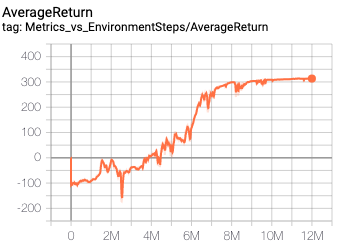
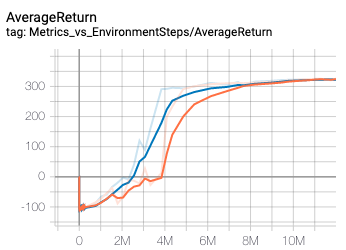
change sac_bipedal_walker.gin to alf conf (#1074)
* change sac_bipedal_walker.gin to alf conf

* also changed dyna_actrepeat_bipedalwalker and ran a test

diff --git a/alf/examples/sac_bipedal_walker_conf.py b/alf/examples/sac_bipedal_walker_conf.py
@@ -1,0 +1,69 @@
+# Copyright (c) 2021 Horizon Robotics and ALF Contributors. All Rights Reserved.
+#
+# Licensed under the Apache License, Version 2.0 (the "License");
+# you may not use this file except in compliance with the License.
+# You may obtain a copy of the License at
+#
+#      http://www.apache.org/licenses/LICENSE-2.0
+#
+# Unless required by applicable law or agreed to in writing, software
+# distributed under the License is distributed on an "AS IS" BASIS,
+# WITHOUT WARRANTIES OR CONDITIONS OF ANY KIND, either express or implied.
+# See the License for the specific language governing permissions and
+# limitations under the License.
+
+from functools import partial
+
+import torch
+
+import alf
+from alf.examples import sac_conf
+from alf.algorithms.data_transformer import RewardNormalizer
+
+alf.config(
+    "create_environment",
+    env_name="BipedalWalker-v2",
+    num_parallel_environments=32)
+
+hidden_layers = (256, ) * 2
+proj_net = partial(
+    alf.networks.NormalProjectionNetwork,
+    state_dependent_std=True,
+    scale_distribution=True,
+    std_transform=alf.math.clipped_exp)
+actor_distribution_network_cls = partial(
+    alf.networks.ActorDistributionNetwork,
+    fc_layer_params=hidden_layers,
+    continuous_projection_net_ctor=proj_net)
+critic_network_cls = partial(
+    alf.networks.CriticNetwork, joint_fc_layer_params=hidden_layers)
+
+optimizer = alf.optimizers.AdamTF(lr=5e-4)
+alf.config("Agent", optimizer=optimizer)
+
+alf.config(
+    'SacAlgorithm',
+    actor_network_cls=actor_distribution_network_cls,
+    critic_network_cls=critic_network_cls,
+    target_update_tau=0.005)
+
+alf.config('calc_default_target_entropy', min_prob=0.1)
+
+reward_normalizer = partial(RewardNormalizer, clip_value=5.)
+
+# training config
+alf.config(
+    "TrainerConfig",
+    initial_collect_steps=3000,
+    data_transformer_ctor=[reward_normalizer],
+    mini_batch_length=2,
+    unroll_length=4,
+    mini_batch_size=4096,
+    num_updates_per_train_iter=1,
+    num_iterations=200000,
+    num_checkpoints=5,
+    evaluate=False,
+    debug_summaries=True,
+    summarize_grads_and_vars=True,
+    num_summaries=100,
+    replay_buffer_length=100000)

diff --git a/alf/examples/dyna_actrepeat_sac_bipedalwalker_conf.py b/alf/examples/dyna_actrepeat_sac_bipedalwalker_conf.py
@@ -1,0 +1,44 @@
+# Copyright (c) 2021 Horizon Robotics and ALF Contributors. All Rights Reserved.
+#
+# Licensed under the Apache License, Version 2.0 (the "License");
+# you may not use this file except in compliance with the License.
+# You may obtain a copy of the License at
+#
+#      http://www.apache.org/licenses/LICENSE-2.0
+#
+# Unless required by applicable law or agreed to in writing, software
+# distributed under the License is distributed on an "AS IS" BASIS,
+# WITHOUT WARRANTIES OR CONDITIONS OF ANY KIND, either express or implied.
+# See the License for the specific language governing permissions and
+# limitations under the License.
+
+from functools import partial
+
+import alf
+from alf.algorithms.sac_algorithm import SacAlgorithm
+from alf.algorithms.dynamic_action_repeat_agent import DynamicActionRepeatAgent
+from alf.algorithms.data_transformer import RewardNormalizer
+from alf.examples import sac_bipedal_walker_conf
+from alf.utils import dist_utils
+
+alf.config(
+    "SacAlgorithm",
+    q_network_cls=partial(
+        alf.networks.QNetwork,
+        preprocessing_combiner=alf.layers.NestConcat(),
+        fc_layer_params=sac_bipedal_walker_conf.hidden_layers),
+    target_entropy=(partial(
+        dist_utils.calc_default_target_entropy, min_prob=0.2),
+                    partial(
+                        dist_utils.calc_default_target_entropy, min_prob=0.1)))
+
+alf.config(
+    "DynamicActionRepeatAgent", K=5, rl_algorithm_cls=SacAlgorithm, gamma=0.99)
+
+alf.config(
+    "TrainerConfig",
+    data_transformer_ctor=None,
+    algorithm_ctor=partial(
+        DynamicActionRepeatAgent,
+        optimizer=sac_bipedal_walker_conf.optimizer,
+        reward_normalizer_ctor=sac_bipedal_walker_conf.reward_normalizer))

diff --git a/alf/bin/train_play_test.py b/alf/bin/train_play_test.py
@@ -442,7 +442,7 @@ class TrainPlayTest(alf.test.TestCase):
 
     def test_dyna_actrepeat_sac_bipedal_walker(self):
         self._test(
-            conf_file='dyna_actrepeat_sac_bipedalwalker.gin',
+            conf_file='dyna_actrepeat_sac_bipedalwalker_conf.py',
             extra_train_params=OFF_POLICY_TRAIN_PARAMS)
 
     def test_dyna_actrepeat_sac_pickplace(self):
@@ -584,7 +584,7 @@ class TrainPlayTest(alf.test.TestCase):
 
     def test_sac_bipedal_walker(self):
         self._test(
-            conf_file='sac_bipedal_walker.gin',
+            conf_file='sac_bipedal_walker_conf.py',
             extra_train_params=OFF_POLICY_TRAIN_PARAMS)
 
     def test_sac_carla(self):

diff --git a/alf/algorithms/dynamic_action_repeat_agent.py b/alf/algorithms/dynamic_action_repeat_agent.py
@@ -154,7 +154,6 @@ class DynamicActionRepeatAgent(OffPolicyAlgorithm):
         self._repr_learner = repr_learner
         self._reward_normalizer = None
         if reward_normalizer_ctor is not None:
-            assert reward_normalizer_ctor.__name__ == "RewardNormalizer"
             self._reward_normalizer = reward_normalizer_ctor(
                 observation_spec=())
         self._rl = rl

diff --git a/README.md b/README.md
@@ -132,7 +132,7 @@ All the examples below are trained on a single machine Intel(R) Core(TM) i9-7960
   <img src="alf/examples/ddpg_fetchslide.png" width="300" height="200" alt="ddpg-fetchslide-training-curve"/> <img src="alf/examples/ddpg_fetchslide.gif" width="300" height="200" alf="ddpg-fetchslide-video"/>
 
 ### SAC
-* [Bipedal Walker](alf/examples/sac_bipedal_walker.gin).
+* [Bipedal Walker](alf/examples/sac_bipedal_walker_conf.py).
 
   <img src="alf/examples/sac_bipedal_walker.png" width = "300" height ="200" alt="bipedal-walker-training-curve"/> <img src="alf/examples/sac_bipedal_walker.gif" width = "300" height ="200" alt="bipedal-walker-video"/>
 
